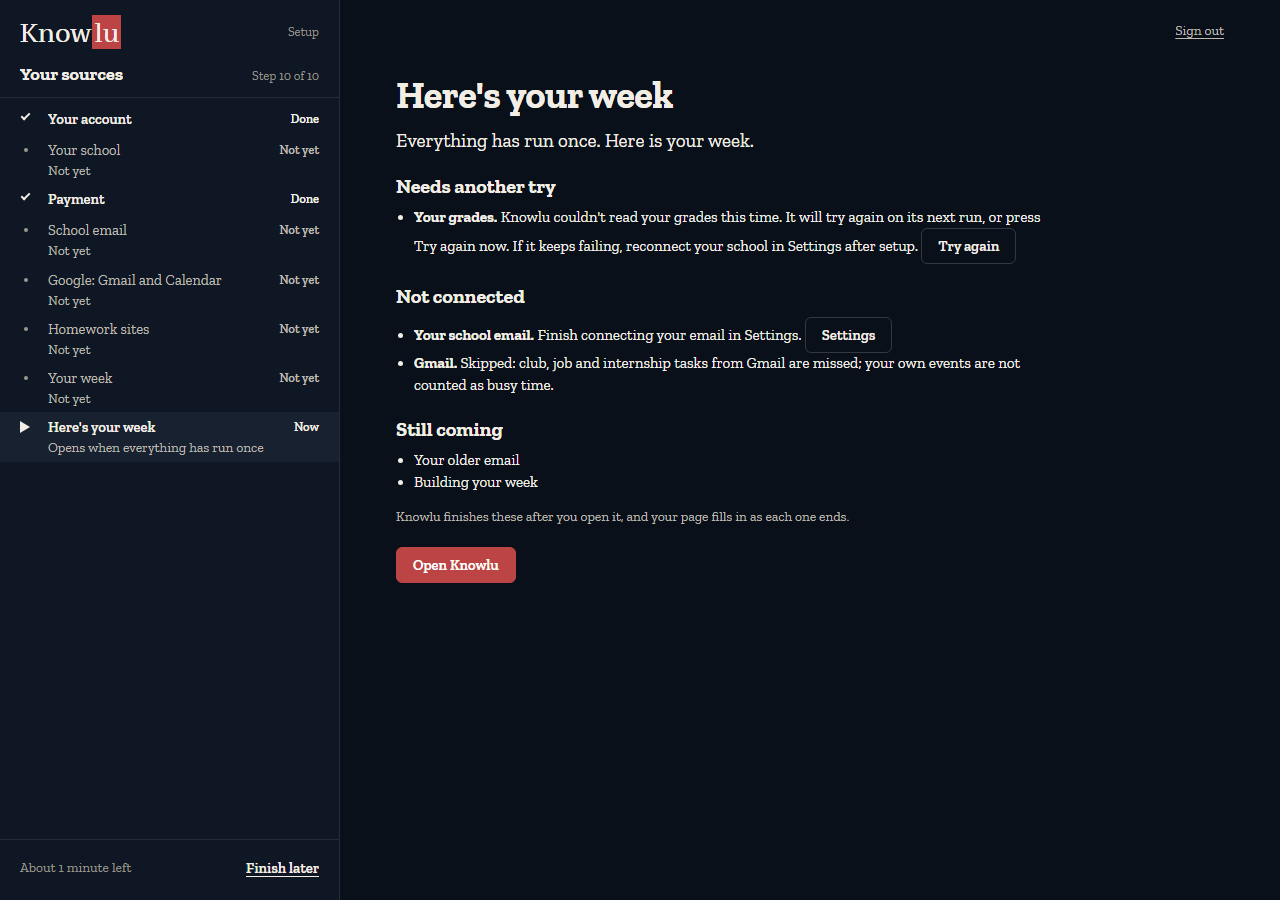
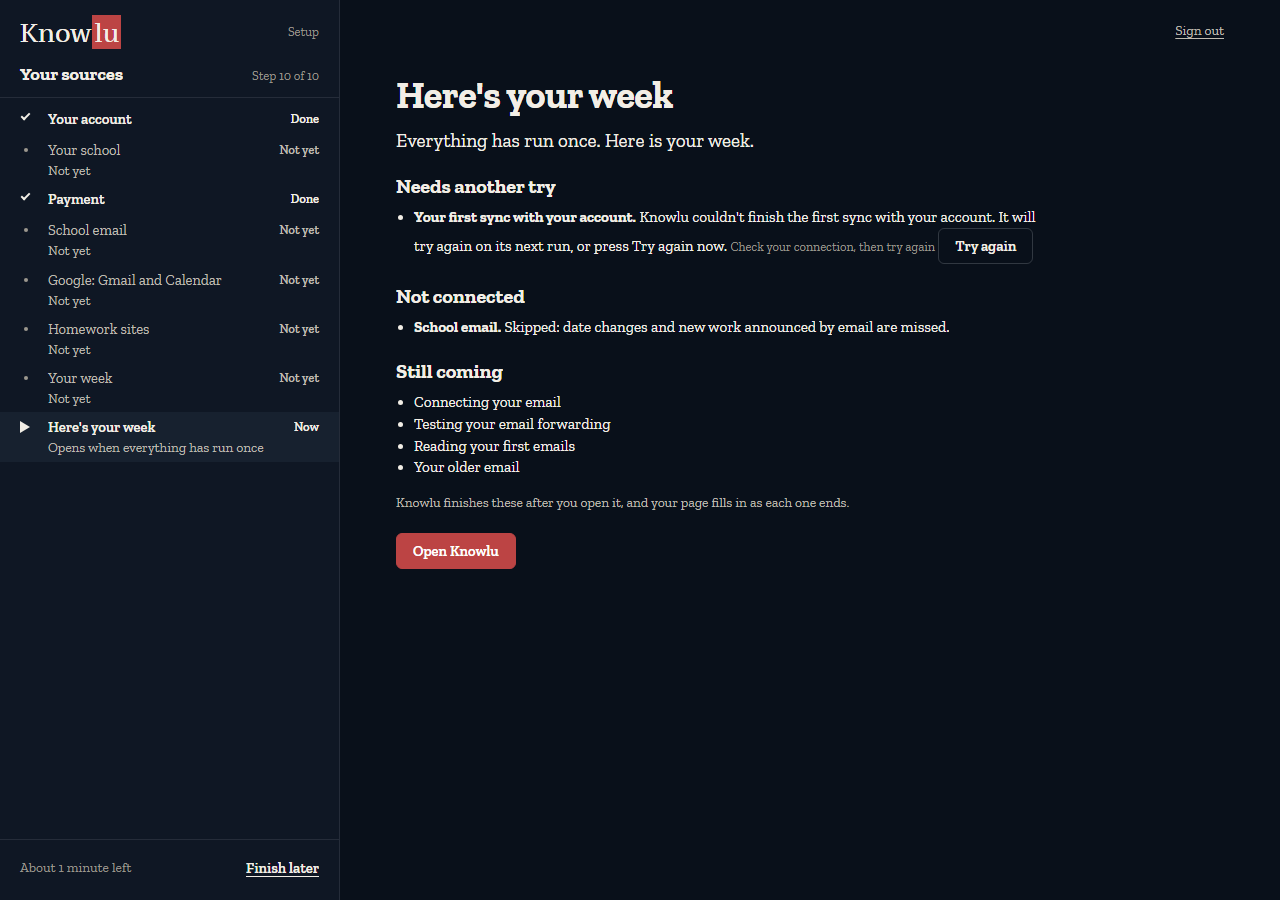
fix(F11d r1): the reveal drops its Settings button and the false finish promise; the main page files mail.connect under Not connected with its cost; shots
Claude-Session: https://claude.ai/code/session_01EtveU7wxFVygY3Msga61qk

Changed region(s): [[0.3125, 0.3422, 0.75, 0.6533], [0.3125, 0.2178, 0.8125, 0.28]]

diff --git a/app/static/onboarding.js b/app/static/onboarding.js
@@ -52,7 +52,7 @@
     "google.calendar_read": "reading your calendar", "coursework.discover": "finding your homework sites", "config.ingest": "setting up your sources",
     "slot.partial": "reading your first week", "slot.first_full": "building your week", "first.sync": "your first sync with your account",
     "first.coursework": "your homework sites", "first.ingest": "your calendar and feeds", "first.grades": "your grades",
-    "backfill.older_mail": "your older email", "class_times": "your class times", "gmail": "Gmail", "mail": "school email", "mail.connect": "your school email"
+    "backfill.older_mail": "your older email", "class_times": "your class times", "gmail": "Gmail", "mail": "school email"
   };
   var REASON_WORDS = {
     first_sync_failed: "Knowlu couldn't finish the first sync with your account. It will try again on its next run, or press Try again now.",
@@ -117,13 +117,19 @@
     return {
       failed: (g.failed || []).map(function (f) { return { key: f.key, name: jobWords(f.key), text: reasonWords(f.reason), fix: f.fix, retry: true }; }),
       stillComing: (g.still_coming || []).map(function (k) { return { key: k, words: jobWords(k) }; }),
-      notConnected: (g.not_connected || []).map(function (n) { return { key: n.key, name: jobWords(n.key), cost: costWords(n.cost_key), settings: n.key === "mail.connect" }; })
+      notConnected: (g.not_connected || []).map(function (n) { return { key: n.key, name: jobWords(n.key), cost: costWords(n.cost_key) }; })
     };
   }
   // The reveal's gate-driven part. The words are the page's own; the fix is the server's, as written.
   function cap(t) { t = String(t == null ? "" : t); return t.charAt(0).toUpperCase() + t.slice(1); }
   // Text between tags needs only & < > escaped, so a sentence's apostrophe shows as typed.
   function txt(t) { return String(t == null ? "" : t).replace(/&/g, "&amp;").replace(/</g, "&lt;").replace(/>/g, "&gt;"); }
+  // With mail.setup pending, mail.setup/canary/first_pass become one mail.connect at finish and wait on the student.
+  function finishesAlone(items) {
+    var keys = items.map(function (c) { return c.key; }), trio = ["mail.setup", "mail.canary", "mail.first_pass"];
+    var needsStudent = keys.indexOf("mail.setup") >= 0;
+    return keys.some(function (k) { return !(needsStudent && trio.indexOf(k) >= 0); });
+  }
   function revealHtml(m, openEnabled) {
     var h = '<div id="ob-step-11" class="ob-reveal">';
     if (m.failed.length) {
@@ -134,14 +140,13 @@
     }
     if (m.notConnected.length) {
       h += '<h2 class="ob-h2">Not connected</h2><ul class="ob-list">' + m.notConnected.map(function (n) {
-        return '<li class="ob-rv-item"><b>' + txt(cap(n.name)) + '.</b> ' + txt(n.cost) +
-          (n.settings ? ' <button class="b su-btn" type="button" data-act="settings">Settings</button>' : "") + '</li>';
+        return '<li class="ob-rv-item"><b>' + txt(cap(n.name)) + '.</b> ' + txt(n.cost) + '</li>';
       }).join("") + '</ul>';
     }
     if (m.stillComing.length) {
       h += '<h2 class="ob-h2">Still coming</h2><ul class="ob-list">' + m.stillComing.map(function (c) {
         return '<li class="ob-rv-item">' + txt(cap(c.words)) + '</li>';
-      }).join("") + '</ul><p class="su-small">Knowlu finishes these after you open it, and your page fills in as each one ends.</p>';
+      }).join("") + '</ul>' + (finishesAlone(m.stillComing) ? '<p class="su-small">Knowlu finishes these after you open it, and your page fills in as each one ends.</p>' : "");
     }
     if (!m.failed.length && !m.notConnected.length && !m.stillComing.length) {
       h += '<p class="ob-state">Nothing is left. Everything you connected ran once.</p>';
@@ -882,14 +887,12 @@
     w11.html = html; el.outerHTML = html; renderClosing();
   }
   OB.registerPanel(11, { render: render11, onStatus: onStatus11 });
-  OB.registerLeave(function () { w11.opening = false; });
+  OB.registerLeave(function () { w11.html = ""; });
   function openKnowlu() {
     if (S.outstanding || w11.opening) { return; }
     w11.opening = true; S.outstanding = true; S.error = ""; renderClosing();
     leaving().then(function () { return invoke("onboarding_finish", {}); }).then(function (a) { w11.opening = false; afterExit(a); }).catch(function () { w11.opening = false; exitFailed(); });
   }
-  // Settings is the console's own overlay, opened through the hook the tray uses.
-  function openSettings11() { if (window.KNOWLU_OPEN_SETTINGS) { window.KNOWLU_OPEN_SETTINGS(); } }
   // ==== F11d (ends) ================================================================================
 
   // The one reader of `account_status`: on mount and at the step 2 and step 4 moves, never from the poll.
@@ -921,8 +924,7 @@
     if (e.target.closest("#ob-finish-later") || e.target.closest("[data-act=finishLater]")) { finishLater(); return; }
     if (e.target.closest("#ob-sign-out")) { signOut(); return; }
     if (e.target.closest("#ob-open-knowlu")) { openKnowlu(); return; }
-    if (e.target.closest("[data-act=settings]")) { openSettings11(); return; }
-    var r =e.target.closest("[data-retry]");
+    var r = e.target.closest("[data-retry]");
     if (r) { retryJob(r.getAttribute("data-retry")); }
   }
   function startOnboarding(step, status) {

diff --git a/app/static/console.js b/app/static/console.js
@@ -1592,15 +1592,20 @@
     "mail.first_pass": "Your first emails are still being read."
   };
   function handoverHtml(items) {
-    var out = (items || []).map(function (it) {
-      var k = it && it.item;
-      if (k === "mail.connect") {
-        return '<div class="ho-row"><span class="ho-line">' + h(HANDOVER_WORDS[k]) + '</span><button class="b" type="button" data-settings>Settings</button>' +
-          '<button class="b" type="button" data-ho-notnow>Not now</button></div>';
-      }
-      return '<div class="ho-row"><span class="ho-line">' + h(HANDOVER_WORDS[k] || "Something is still coming.") + '</span></div>';
-    });
-    return out.length ? '<div class="ho-head">Still coming</div>' + out.join("") : "";
+    var list = items || [], html = "";
+    var conn = list.filter(function (it) { return it && it.item === "mail.connect"; });
+    var rest = list.filter(function (it) { return !(it && it.item === "mail.connect"); });
+    if (conn.length) {
+      html += '<div class="ho-head">Not connected</div><div class="ho-row"><span class="ho-line">' + h(HANDOVER_WORDS["mail.connect"]) +
+        ' Without it, date changes and new work announced by email are missed.</span><button class="b" type="button" data-settings>Settings</button>' +
+        '<button class="b" type="button" data-ho-notnow>Not now</button></div>';
+    }
+    if (rest.length) {
+      html += '<div class="ho-head">Still coming</div>' + rest.map(function (it) {
+        return '<div class="ho-row"><span class="ho-line">' + h(HANDOVER_WORDS[it && it.item] || "Something is still coming.") + '</span></div>';
+      }).join("");
+    }
+    return html;
   }
   function loadHandover() {
     return invoke("onboarding_handover", {}).then(function (r) {

diff --git a/docs/reports/shots/F11d/index.md b/docs/reports/shots/F11d/index.md
@@ -2,20 +2,19 @@
 
 Headless Edge, a scratch copy of `app/static`, the status staged through
 `KNOWLU_SHOTS.startOnboarding(11, status)` (reveal, 1280x900) and `?fixture=` with a stubbed
-`onboarding_handover` (main page, 1440x500). Invented data only: one failed grades item, `mail.connect`
-not connected, Gmail skipped, two items still coming. The prototype is `5b-departures-board/index.html?shot=1&theme={dark|light}#r1-reveal`.
+`onboarding_handover` (main page, 1440x500). Invented data only: one failed grades item, school email skipped (its cost sentence, no Settings button: review r1), four items still coming. The main page shot stages `mail.connect` (Not connected, its cost line, Settings and Not now) beside one still-coming item. The prototype is `5b-departures-board/index.html?shot=1&theme={dark|light}#r1-reveal`.
 
 | Name | Built | Prototype |
 |---|---|---|
-| reveal, one failed, two not connected, two coming | f11-reveal-{dark,light}-built.png | f11-reveal-{dark,light}-prototype.png |
+| reveal, one failed, one skip with its cost, four coming | f11-reveal-{dark,light}-built.png | f11-reveal-{dark,light}-prototype.png |
 | reveal, everything done | f11-reveal-all-done-{dark,light}-built.png | none (prototype's variant differs) |
-| main page, still-coming line (dark) | f11-main-still-coming-dark-built.png | none |
+| main page, Not connected (mail.connect) above Still coming (dark) | f11-main-still-coming-dark-built.png | none |
 
 ## Intended differences
 
 - The prototype's top of page (what's next, tonight, the week board, tidied, from your email) is not built here: it needs
   read-model fields that are another task's (F7c/F9). F11d builds the gate-driven part: failed items with the server's fix and a
-  Try again, not-connected items (mail.connect with its Settings button), still coming, and Open Knowlu.
+  Try again, not-connected items (each skip with its cost; no Settings button, which is the main page's), still coming, and Open Knowlu.
 - The built reveal shows its sections as lists in the setup frame, not the prototype's three-paragraph band.
 - A failed item whose fix is the plain "Try again" shows only the button, not the same words twice.
 - The rail on the built shots reads "Not yet" because the staged status has no job records.
